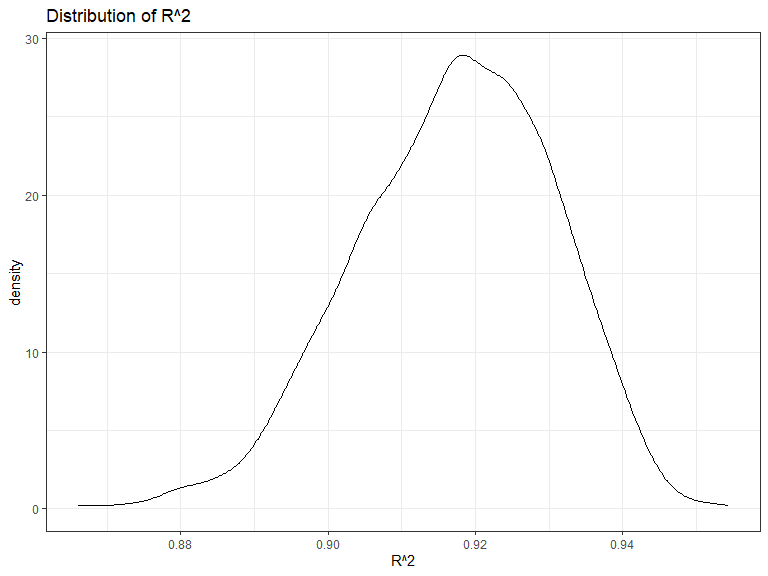
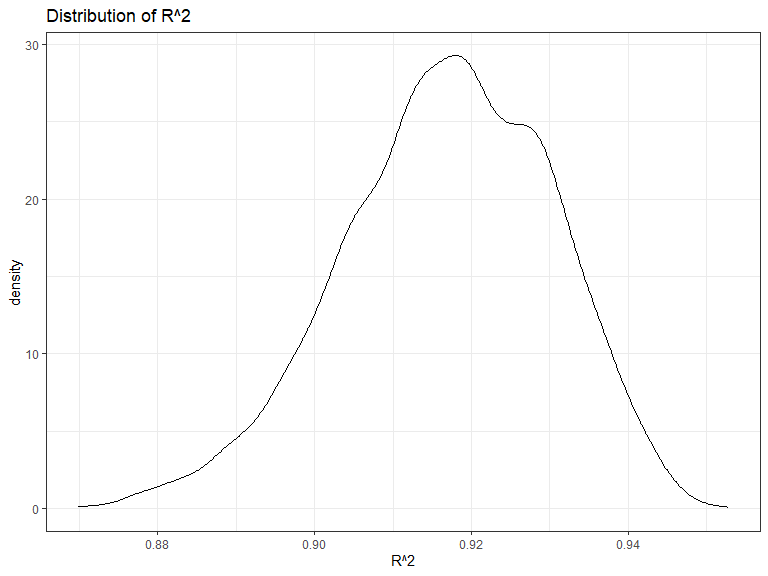
some changes

diff --git a/p8105_hw6_yb2584.md b/p8105_hw6_yb2584.md
@@ -241,18 +241,18 @@ CI_R2
 ```
 
     ##      2.5%     97.5% 
-    ## 0.8893243 0.9405629
+    ## 0.8883418 0.9404098
 
 ``` r
 CI_log_beta0_beta1
 ```
 
     ##     2.5%    97.5% 
-    ## 2.055781 2.138105
+    ## 2.057280 2.138967
 
-Therefore, the 95% confidence interval for $R^2$ is (0.8893243,
-0.9405629), the 95% confidence interval for $log(\beta_0*\beta_1)$ is
-(2.0557813, 2.1381048).
+Therefore, the 95% confidence interval for $R^2$ is (0.8883418,
+0.9404098), the 95% confidence interval for $log(\beta_0*\beta_1)$ is
+(2.05728, 2.1389668).
 
 ## Problem 3
 
@@ -511,16 +511,6 @@ summary(step_model)
     ## Multiple R-squared:  0.7181, Adjusted R-squared:  0.7173 
     ## F-statistic: 848.1 on 13 and 4328 DF,  p-value: < 2.2e-16
 
-``` r
-data.frame(R_square=summary(step_model)$adj.r.squared,
-           AIC=AIC(step_model),
-           BIC=BIC(step_model),
-           PRESS=MPV::PRESS(step_model))
-```
-
-    ##    R_square      AIC      BIC     PRESS
-    ## 1 0.7172529 61029.44 61125.08 323924792
-
 Form the result, we can know that some variable are not significant in
 this model. Therefore, we decide to drop these variables.
 
@@ -611,11 +601,13 @@ Some measurement of this model are
 data.frame(R_square_adjusted=summary(drop_outliers_model)$adj.r.squared,
            AIC=AIC(drop_outliers_model),
            BIC=BIC(drop_outliers_model),
-           PRESS=MPV::PRESS(drop_outliers_model))
+           PRESS=MPV::PRESS(drop_outliers_model))|>
+  knitr::kable()
 ```
 
-    ##   R_square_adjusted   AIC      BIC     PRESS
-    ## 1         0.7746345 56803 56891.59 220249909
+| R_square_adjusted |   AIC |      BIC |     PRESS |
+|------------------:|------:|---------:|----------:|
+|         0.7746345 | 56803 | 56891.59 | 220249909 |
 
 Next, we will show a plot of model residuals against fitted values
 
@@ -632,7 +624,7 @@ ggplot(aes(x = pred, y = res),data=data.frame(pred,res)) +
 
     ## `geom_smooth()` using method = 'gam' and formula = 'y ~ s(x, bs = "cs")'
 
-<img src="p8105_hw6_yb2584_files/figure-gfm/unnamed-chunk-17-1.png" width="90%" />
+<img src="p8105_hw6_yb2584_files/figure-gfm/unnamed-chunk-16-1.png" width="90%" />
 Then, we compare our model to two others:
 
 - One using length at birth and gestational age as predictors (main
@@ -677,7 +669,7 @@ cv_df |>
   ggplot(aes(x = model, y = rmse)) + geom_violin()
 ```
 
-<img src="p8105_hw6_yb2584_files/figure-gfm/unnamed-chunk-20-1.png" width="90%" />
+<img src="p8105_hw6_yb2584_files/figure-gfm/unnamed-chunk-19-1.png" width="90%" />
 
 From this plot, we can see that our final model has less rmse, which
 means that our model has a better performance on prediction.
